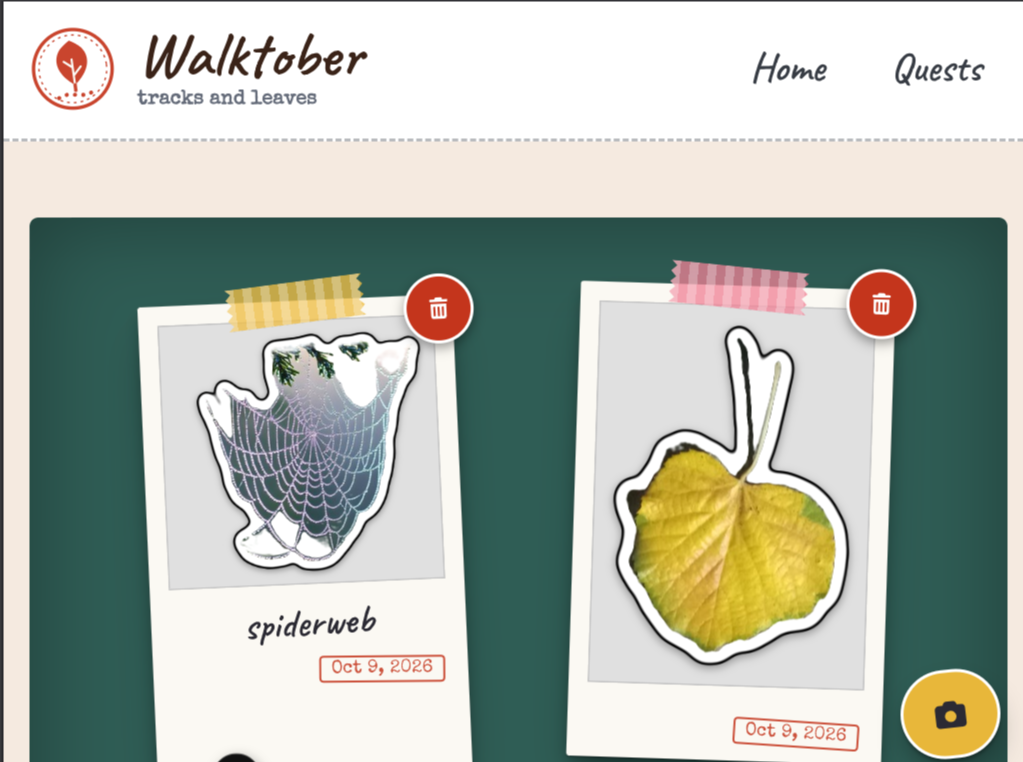
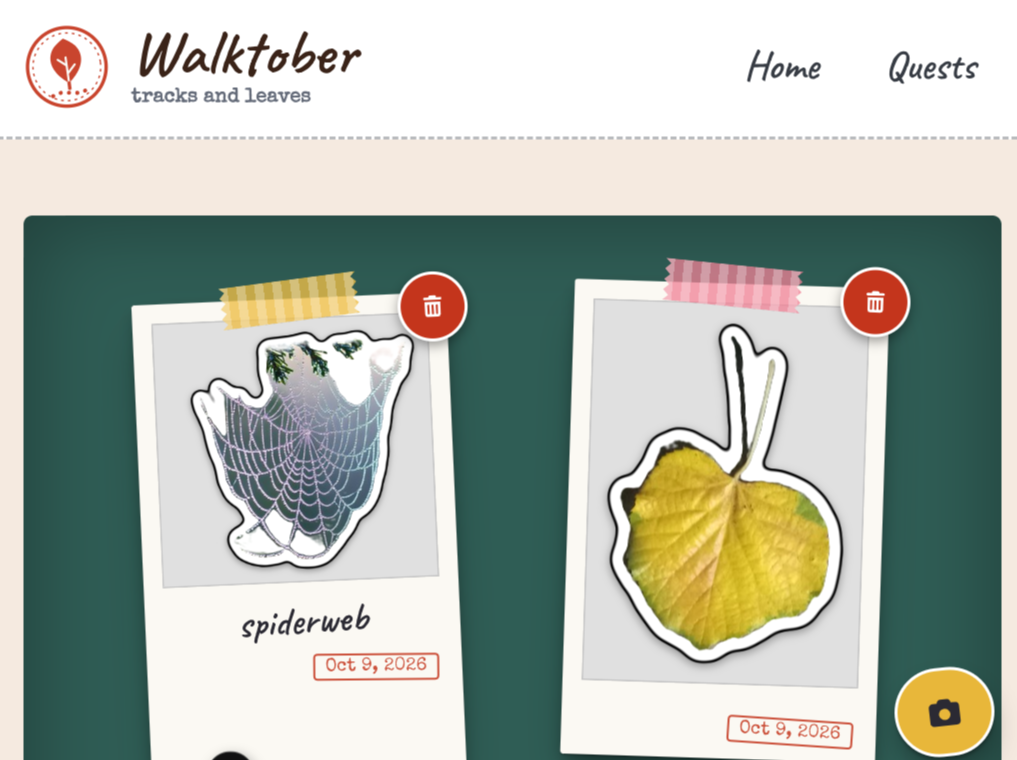
adds PWA support

diff --git a/nuxt.config.ts b/nuxt.config.ts
@@ -1,4 +1,3 @@
-
 const APPNAME = 'walktober'
 
 // https://nuxt.com/docs/api/configuration/nuxt-config
@@ -6,21 +5,89 @@ export default defineNuxtConfig({
   compatibilityDate: '2025-07-15',
   devtools: { enabled: true },
   ssr: false,
-  css: [
-    '@/assets/css/style.css',
-  ],
-  modules: [
-    '@nuxt/icon', '@vite-pwa/nuxt'
-  ],
+  css: ['@/assets/css/style.css'],
+  modules: ['@nuxt/icon', '@vite-pwa/nuxt'],
+
+  app: {
+    head: {
+      title: APPNAME,
+      meta: [
+        { name: 'theme-color', content: '#ffffff' },
+        { name: 'viewport', content: 'width=device-width, initial-scale=1, viewport-fit=cover' },
+      ],
+    },
+  },
+
+  pwa: {
+    registerType: 'autoUpdate',
+    manifest: {
+      name: APPNAME,
+      short_name: APPNAME,
+      description: APPNAME,
+      theme_color: '#ffffff',
+      background_color: '#ffffff',
+      display: 'standalone',
+      start_url: '/',
+      scope: '/',
+      icons: [
+        { src: 'logo-192x192.png', sizes: '192x192', type: 'image/png' },
+        { src: 'logo-512x512.png', sizes: '512x512', type: 'image/png' },
+        { src: 'logo-512x512.png', sizes: '512x512', type: 'image/png', purpose: 'any' },
+        { src: 'logo-512x512.png', sizes: '512x512', type: 'image/png', purpose: 'maskable' },
+      ],
+    },
+
+    workbox: {
+      navigateFallback: '/',
+      // App shell + small assets get precached
+      globPatterns: ['**/*.{js,mjs,css,html,png,svg,ico,ttf,woff2}'],
+      // Raise the limit (default 2 MiB) in case a big .mjs/.js chunk is precached
+      maximumFileSizeToCacheInBytes: 5 * 1024 * 1024,
+      cleanupOutdatedCaches: true,
+
+      // Big model/runtime files: cached on first use, not at SW install
+      runtimeCaching: [
+        {
+          urlPattern: ({ url }) => url.pathname.endsWith('.onnx'),
+          handler: 'CacheFirst',
+          options: {
+            cacheName: `${APPNAME}-models`,
+            expiration: { maxEntries: 5, maxAgeSeconds: 60 * 60 * 24 * 365 },
+            cacheableResponse: { statuses: [0, 200] },
+            rangeRequests: true,
+          },
+        },
+        {
+          urlPattern: ({ url }) => url.pathname.endsWith('.wasm'),
+          handler: 'CacheFirst',
+          options: {
+            cacheName: `${APPNAME}-wasm`,
+            expiration: { maxEntries: 10, maxAgeSeconds: 60 * 60 * 24 * 365 },
+            cacheableResponse: { statuses: [0, 200] },
+          },
+        },
+      ],
+    },
+
+    client: {
+      installPrompt: true,
+    },
+
+    devOptions: {
+      enabled: true,       // test the SW during `nuxt dev`
+      type: 'module',
+      suppressWarnings: true,
+    },
+  },
 
   // Set Security Headers required for SharedArrayBuffer & WASM Multi-threading
   routeRules: {
     '/**': {
       headers: {
         'Cross-Origin-Opener-Policy': 'same-origin',
-        'Cross-Origin-Embedder-Policy': 'require-corp'
-      }
-    }
+        'Cross-Origin-Embedder-Policy': 'require-corp',
+      },
+    },
   },
 
   // Enable headers in Vite local dev server
@@ -30,8 +97,8 @@ export default defineNuxtConfig({
     server: {
       headers: {
         'Cross-Origin-Opener-Policy': 'same-origin',
-        'Cross-Origin-Embedder-Policy': 'require-corp'
-      }
-    }
-  }
+        'Cross-Origin-Embedder-Policy': 'require-corp',
+      },
+    },
+  },
 })

diff --git a/app/components/Header.vue b/app/components/Header.vue
@@ -14,7 +14,7 @@
             stroke-dasharray="0.1 6" />
         </svg>
         <span class="wordmark">Walktober</span>
-        <small class="tagline">tracks and leaves</small>
+        <small class="tagline">tracks & leaves</small>
       </NuxtLink>
     </h1>
 

diff --git a/todo.md b/todo.md
@@ -1,0 +1,3 @@
+[] add PWA to nuxt.config
+[] test PWA
+[] write up models
